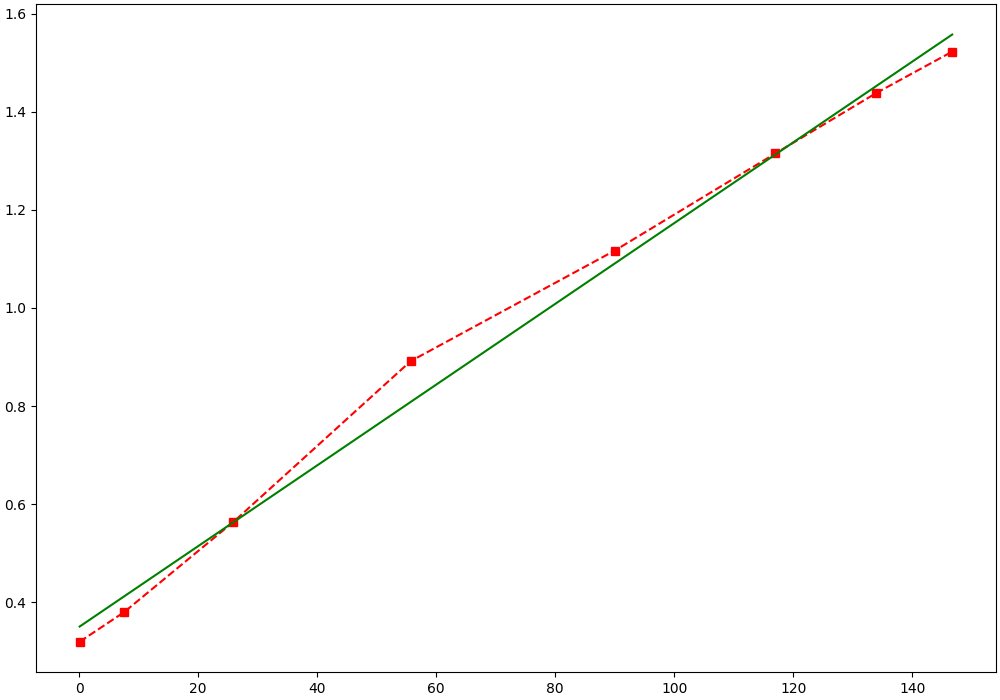
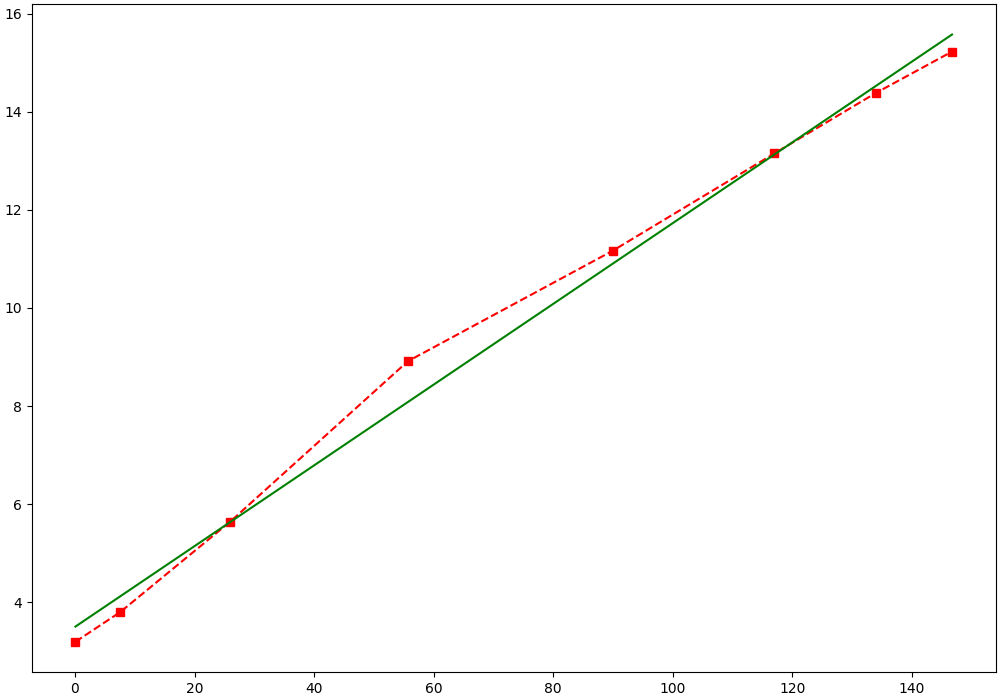
3.3.6

diff --git a/3.3.6/korb.py b/3.3.6/korb.py
@@ -37,7 +37,7 @@ y = np.array(r)
 x = np.array(b)
 x = x ** 2
 x = x / 1000
-y *= 10
+y *= 100
 
 
 x_aproc = x
